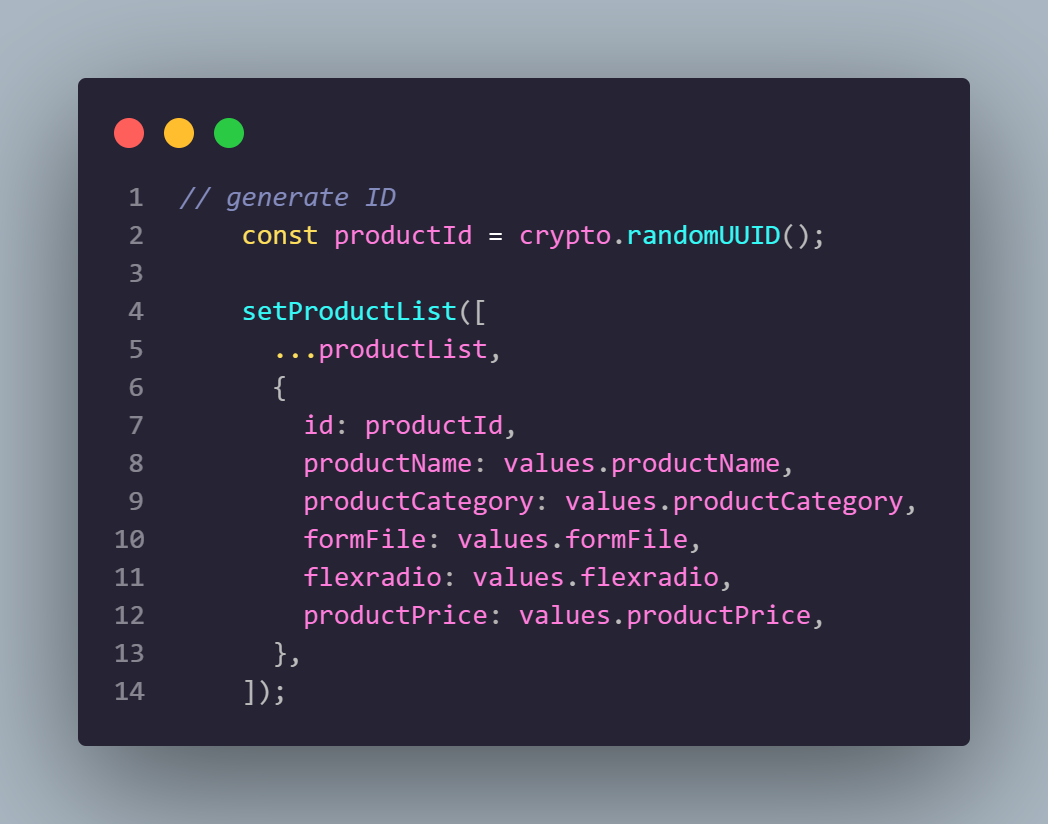
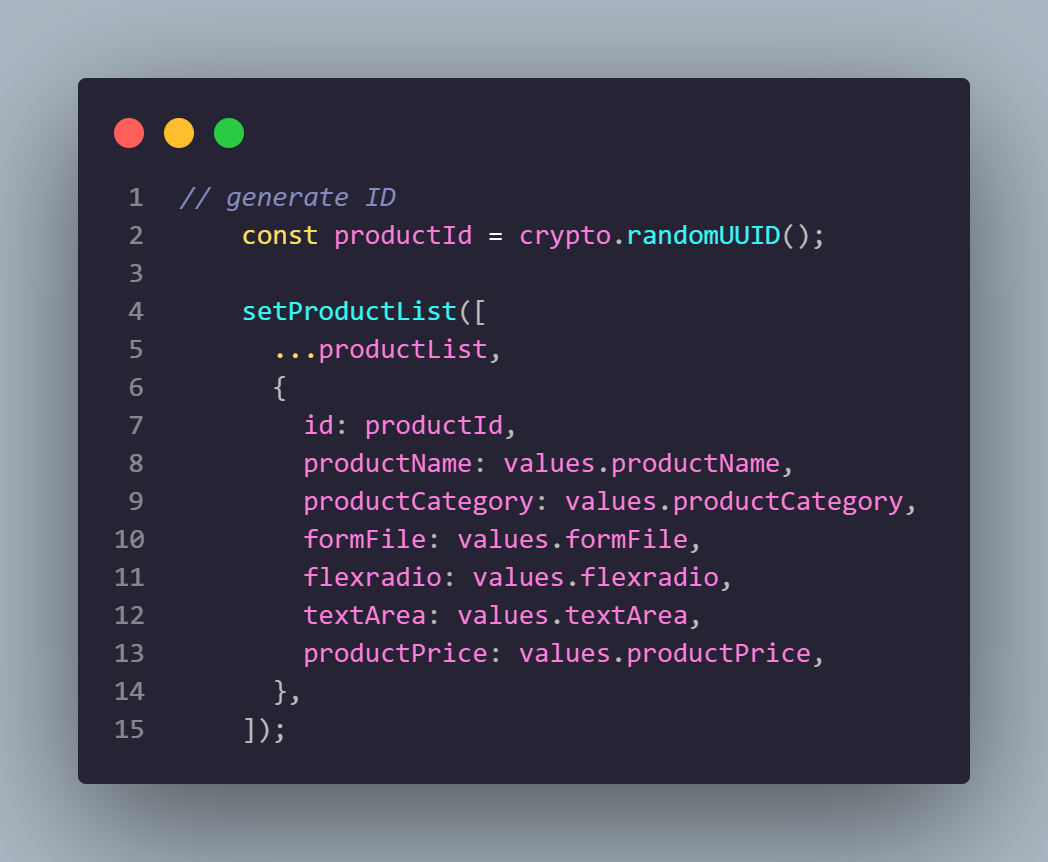
update readme

diff --git a/14_React-Hook/Praktikum/create-product/src/pages/components/form-product.jsx b/14_React-Hook/Praktikum/create-product/src/pages/components/form-product.jsx
@@ -6,6 +6,7 @@ const FormProduct = () => {
     productCategory: "",
     formFile: "",
     flexradio: "",
+    textArea: "",
     productPrice: "",
   });
 
@@ -36,6 +37,9 @@ const FormProduct = () => {
     if (!values.flexradio) {
       return ["This field cannot be empty, pick one"];
     }
+    if (!values.textArea) {
+      return ["This field cannot be empty, describe your product"];
+    }
     if (!values.productPrice || values.productPrice < 1) {
       return ["Product price must be contain more than 0"];
     }
@@ -57,6 +61,7 @@ const FormProduct = () => {
       productCategory: "",
       formFile: "",
       flexradio: "",
+      textArea: "",
       productPrice: "",
     });
 
@@ -65,6 +70,7 @@ const FormProduct = () => {
     Nama produk: ${values.productName}
     Kategori produk: ${values.productCategory}
     Kesegaran produk: ${values.flexradio}
+    Deskripsi produk: ${values.textArea}
     Harga produk: ${values.productPrice}`;
     alert(alertMessage);
 
@@ -79,6 +85,7 @@ const FormProduct = () => {
         productCategory: values.productCategory,
         formFile: values.formFile,
         flexradio: values.flexradio,
+        textArea: values.textArea,
         productPrice: values.productPrice,
       },
     ]);
@@ -173,6 +180,7 @@ const FormProduct = () => {
                   className="form-check-input"
                   type="radio"
                   name="flexradio"
+                  id="radioSecondHand"
                   value="Second Hand"
                   checked={values.flexradio === "Second Hand"}
                   onChange={handleChange}
@@ -186,6 +194,7 @@ const FormProduct = () => {
                   className="form-check-input"
                   type="radio"
                   name="flexradio"
+                  id="radioRefurbished"
                   value="Refurbished"
                   checked={values.flexradio === "Refurbished"}
                   onChange={handleChange}

diff --git a/14_React-Hook/readme.md b/14_React-Hook/readme.md
@@ -47,11 +47,20 @@ Performa lebih baik
 ## Soal Prioritas 2 (Nilai 20)
 
 - Buatlah tombol delete berfungsi, pastikan ketika ingin melakukan delete terdapat alert/modal/notifikasi yang bertuliskan apakah kalian ingin menghapus.
-Jika pilih hapus maka data baru akan terhapus.
-  <p align="center">
-    <img src="Screenshots/alert-delete-1.png" alt="gambar" />
+  Jika pilih hapus maka data baru akan terhapus.
+
+<p align="center">
+<img src="Screenshots/alert-delete-1.png" alt="gambar" />
 </p>
-Jika pilih tidak maka alert/modal/notifikasi akan hilang.
 <p align="center">
     <img src="Screenshots/alert-delete-2.png" alt="gambar" />
+</p>
+
+Jika pilih tidak maka alert/modal/notifikasi akan hilang.
+
+<p align="center">
+    <img src="Screenshots/alert-cancel-1.png" alt="gambar" />
+</p>
+<p align="center">
+    <img src="Screenshots/alert-cancel-2.png" alt="gambar" />
 </p>
